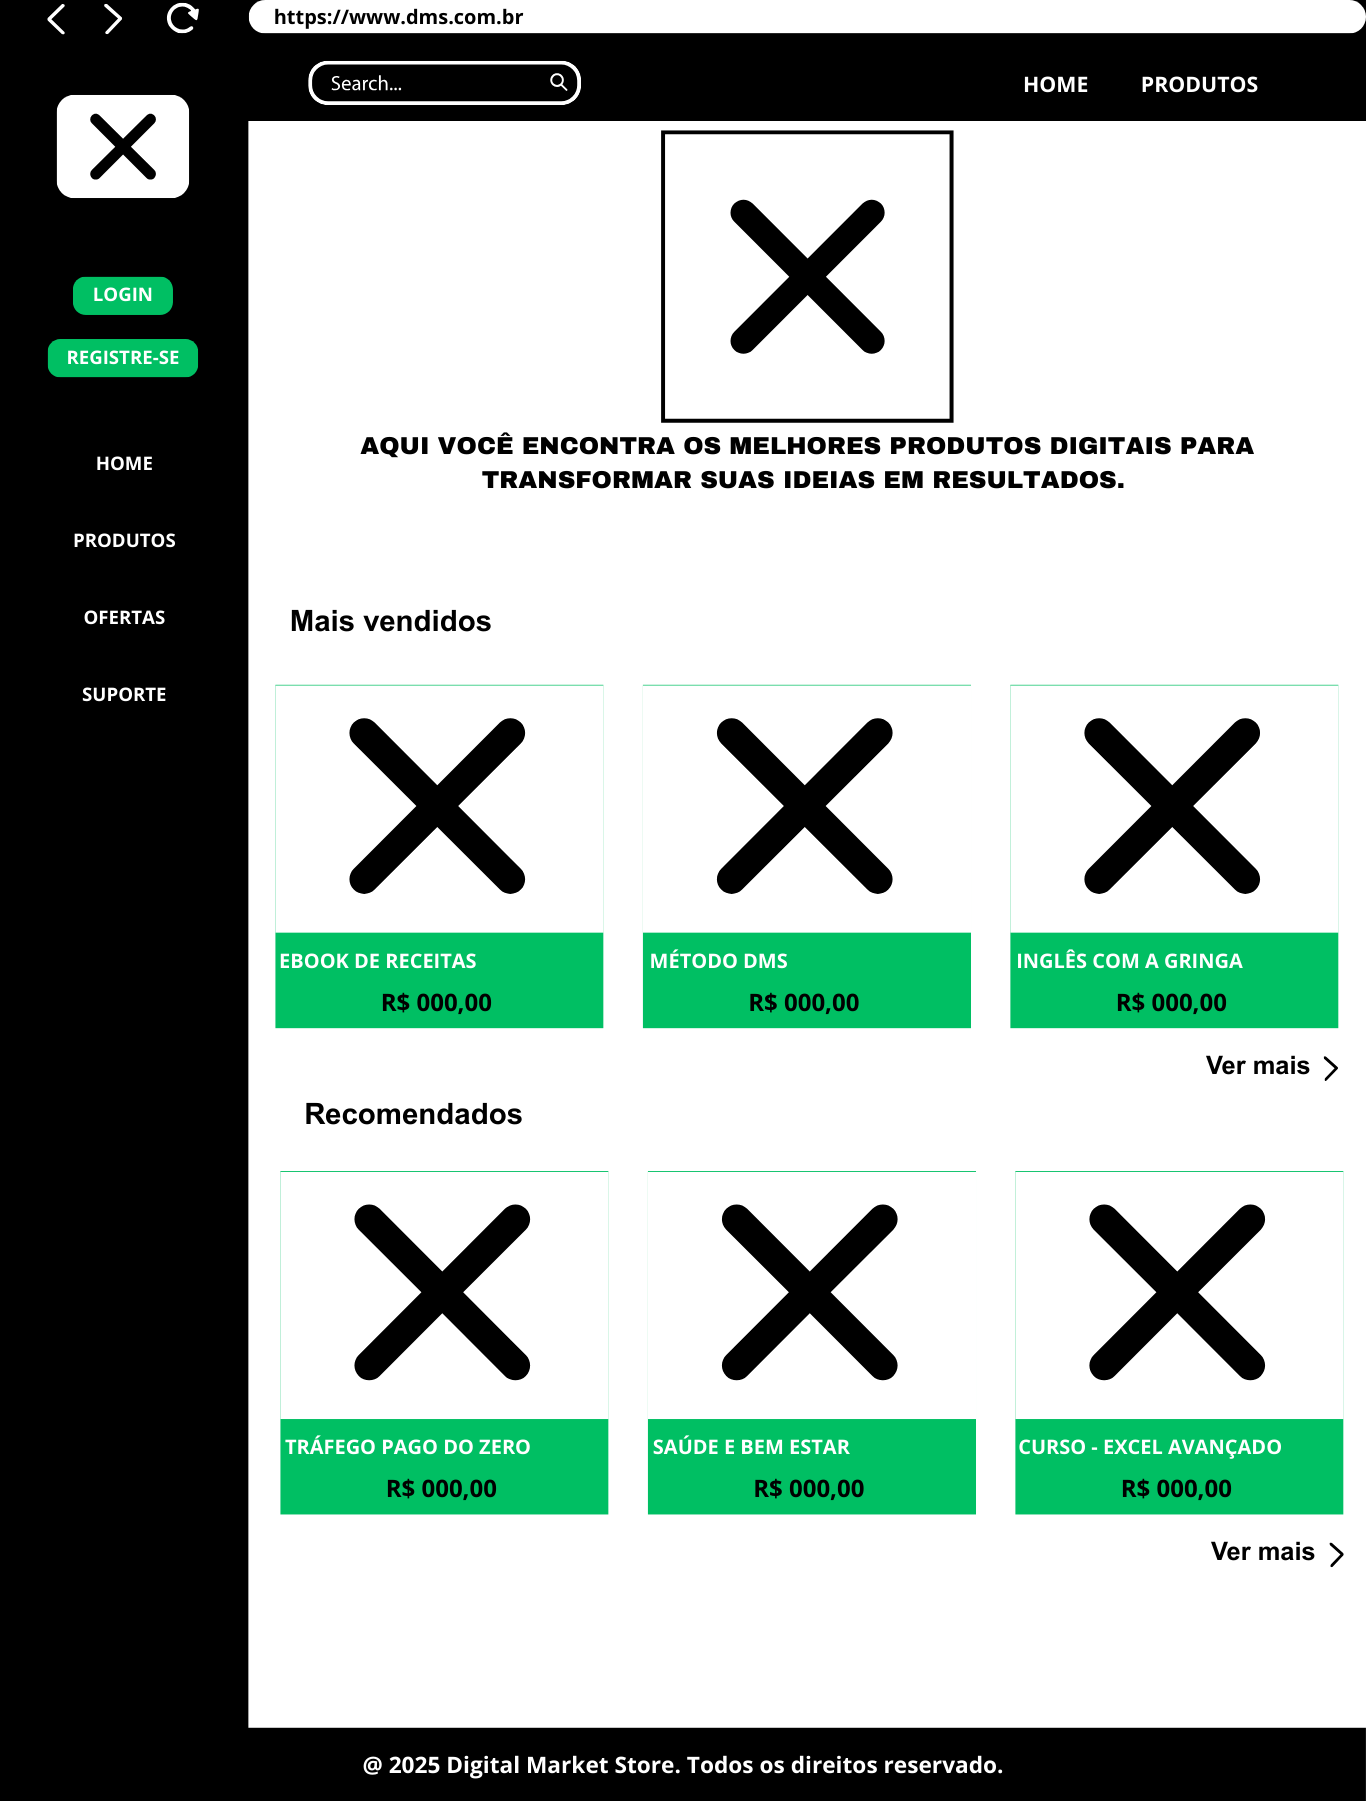
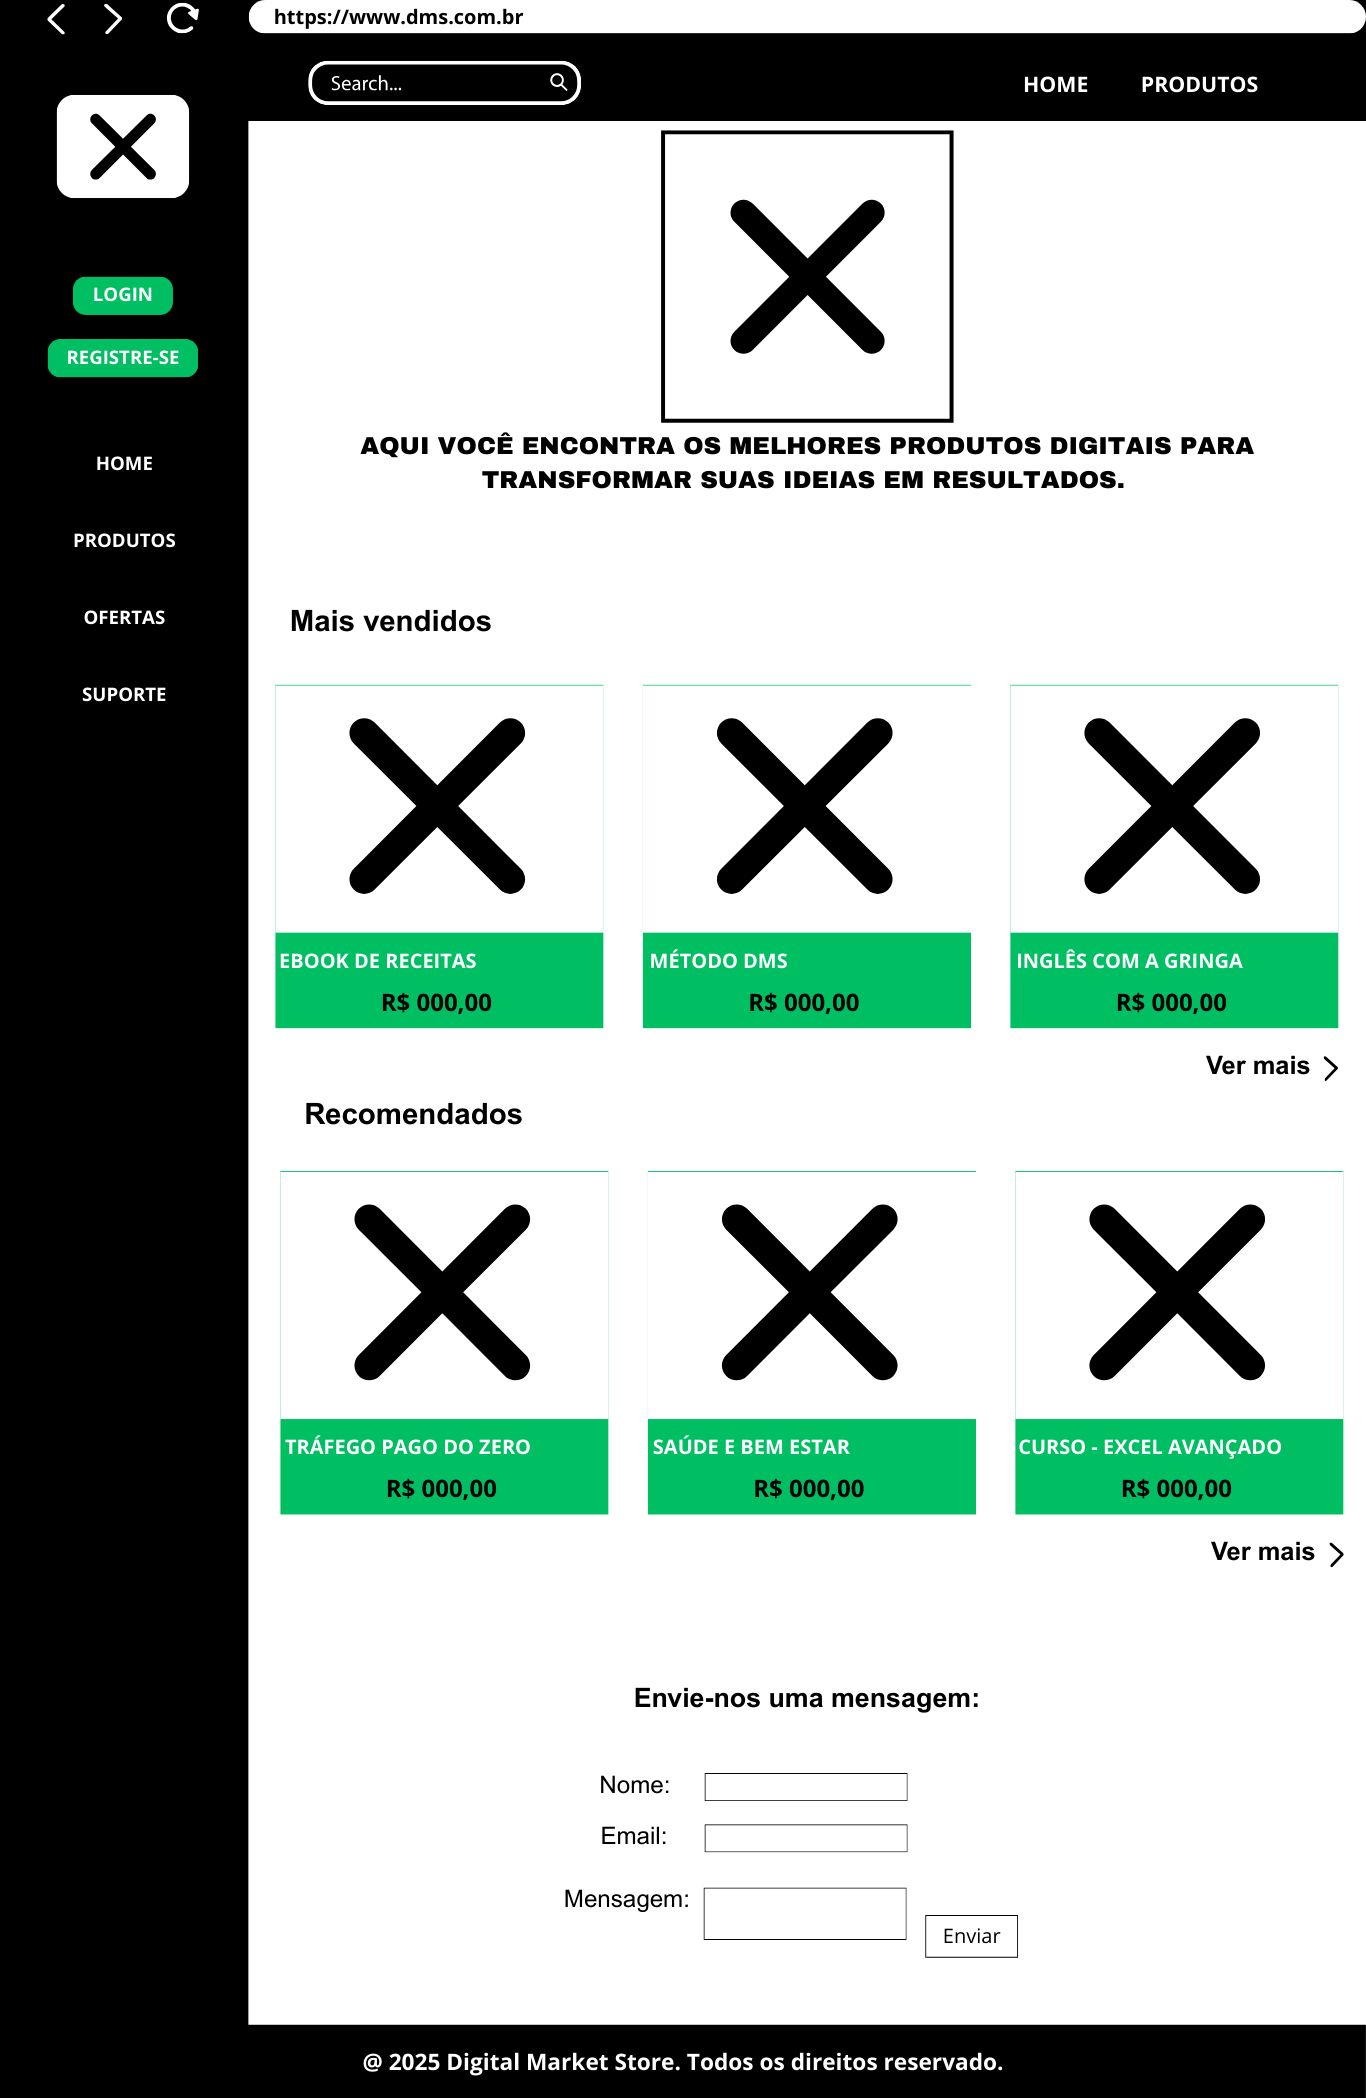
Adiciona e estiliza formulário no HTML com CSS e corrige erros

diff --git a/public/index.html b/public/index.html
@@ -1,18 +1,20 @@
 <!DOCTYPE html>
 <html lang="en">
+
 <head>
     <meta charset="UTF-8">
     <meta name="viewport" content="width=device-width, initial-scale=1.0">
     <title>Digital Market Store</title>
     <link rel="stylesheet" href="style.css">
 </head>
+
 <body>
     <header>
         <nav>
             <div class="caixa-pesquisa">
-            <input type="text" class="texto-pesquisa" placeholder="Buscar na Digital Market Store">
-            <button>Ir</button>
-        </div>
+                <input type="text" class="texto-pesquisa" placeholder="Buscar na Digital Market Store">
+                <button>Ir</button>
+            </div>
             <ul class="menu">
                 <li><a href="">HOME</a></li>
                 <li><a href="">PRODUTOS</a></li>
@@ -25,55 +27,97 @@
             <article>
                 <img class="logo2" src="Imagens/Logo2.png" alt="">
             </article>
-        <article class="caixa-produtos">
-            <h2>Mais Vendidos</h2>
-            <a href=""><div class="prod">
-                <img src="https://images.unsplash.com/photo-1542010589005-d1eacc3918f2?q=80&w=892&auto=format&fit=crop&ixlib=rb-4.1.0&ixid=M3wxMjA3fDB8MHxwaG90by1wYWdlfHx8fGVufDB8fHx8fA%3D%3D" alt="">
-                <h3>Receitas</h3>
-                <p>R$ 60,00</p>
-            </div></a>
-            <a href=""><div class="prod">
-                <img src="https://media.istockphoto.com/id/1339953021/pt/foto/business-strategy-for-marketing-and-management.jpg?b=1&s=612x612&w=0&k=20&c=rj7mYauwKOGQ-tajqHGXwxPWd6Ok-fyJlPNprryATmw=" alt="">
-                <h3>Método DMS</h3>
-                <p>R$ 150,00</p>
-            </div></a>
-            <a href=""><div class="prod">
-                <img src="https://media.istockphoto.com/id/1020548508/pt/foto/a-computer-flag-of-great-britain-and-book-titled-speak-english.jpg?b=1&s=612x612&w=0&k=20&c=8gf5loZJk87zvYT-wBhG5DN61URBFvVs5i8MHcnhcos=" alt="">
-                <h3>Inglês</h3>
-                <p>R$ 450,00</p>
-            </div></a>
-            <h3 class="ver"><a href="">Ver mais ></a></h3>
-        </article>
-        <article class="caixa-produtos2">
-            <h2>Recomendados</h2>
-            <a href=""><div class="prod">
-                <img src="https://media.istockphoto.com/id/1492180527/pt/foto/digital-marketing-commerce-online-sale-concept-promotion-of-products-or-services-through.jpg?b=1&s=612x612&w=0&k=20&c=f6FVNpymdv0PaJFtKymNQ-DSMOTnfj69e5sSvJ4dhPU=" alt="">
-                <h3>Tráfego pago do Zero</h3>
-                <p>R$ 250,00</p>
-            </div></a>
-            <a href=""><div class="prod">
-                <img src="https://media.istockphoto.com/id/1496103633/pt/foto/doctor-woman-and-tablet-in-hospital-with-holographic-ux-for-telehealth-medical-innovation-and.jpg?b=1&s=612x612&w=0&k=20&c=hNIJFu-E_YTlHax6LTE1551xx1AAUy_RbgDZj5UO06c=" alt="">
-                <h3>Saúde e bem estar</h3>
-                <p>R$ 180,00</p>
-            </div></a>
-            <a href=""><div class="prod">
-                <img src="https://images.unsplash.com/photo-1658203897339-0b8c64a42fba?w=500&auto=format&fit=crop&q=60&ixlib=rb-4.1.0&ixid=M3wxMjA3fDB8MHxzZWFyY2h8Mnx8ZXhjZWx8ZW58MHx8MHx8fDA%3D" alt="">
-                <h3>Curso - Excel Avançado</h3>
-                <p>R$ 70,00</p>
-            </div></a>
-            <h3 class="ver"><a href="">Ver mais ></a></h3>
-        </article>
+            <article class="caixa-produtos">
+                <h2>Mais Vendidos</h2>
+                <a href="">
+                    <div class="prod">
+                        <img src="https://images.unsplash.com/photo-1542010589005-d1eacc3918f2?q=80&w=892&auto=format&fit=crop&ixlib=rb-4.1.0&ixid=M3wxMjA3fDB8MHxwaG90by1wYWdlfHx8fGVufDB8fHx8fA%3D%3D"
+                            alt="">
+                        <h3>Receitas</h3>
+                        <p>R$ 60,00</p>
+                    </div>
+                </a>
+                <a href="">
+                    <div class="prod">
+                        <img src="https://media.istockphoto.com/id/1339953021/pt/foto/business-strategy-for-marketing-and-management.jpg?b=1&s=612x612&w=0&k=20&c=rj7mYauwKOGQ-tajqHGXwxPWd6Ok-fyJlPNprryATmw="
+                            alt="">
+                        <h3>Método DMS</h3>
+                        <p>R$ 150,00</p>
+                    </div>
+                </a>
+                <a href="">
+                    <div class="prod">
+                        <img src="https://media.istockphoto.com/id/1020548508/pt/foto/a-computer-flag-of-great-britain-and-book-titled-speak-english.jpg?b=1&s=612x612&w=0&k=20&c=8gf5loZJk87zvYT-wBhG5DN61URBFvVs5i8MHcnhcos="
+                            alt="">
+                        <h3>Inglês</h3>
+                        <p>R$ 450,00</p>
+                    </div>
+                </a>
+                <h3 class="ver"><a href="">Ver mais ></a></h3>
+            </article>
+            <article class="caixa-produtos2">
+                <h2>Recomendados</h2>
+                <a href="">
+                    <div class="prod">
+                        <img src="https://media.istockphoto.com/id/1492180527/pt/foto/digital-marketing-commerce-online-sale-concept-promotion-of-products-or-services-through.jpg?b=1&s=612x612&w=0&k=20&c=f6FVNpymdv0PaJFtKymNQ-DSMOTnfj69e5sSvJ4dhPU="
+                            alt="">
+                        <h3>Tráfego pago do Zero</h3>
+                        <p>R$ 250,00</p>
+                    </div>
+                </a>
+                <a href="">
+                    <div class="prod">
+                        <img src="https://media.istockphoto.com/id/1496103633/pt/foto/doctor-woman-and-tablet-in-hospital-with-holographic-ux-for-telehealth-medical-innovation-and.jpg?b=1&s=612x612&w=0&k=20&c=hNIJFu-E_YTlHax6LTE1551xx1AAUy_RbgDZj5UO06c="
+                            alt="">
+                        <h3>Saúde e bem estar</h3>
+                        <p>R$ 180,00</p>
+                    </div>
+                </a>
+                <a href="">
+                    <div class="prod">
+                        <img src="https://images.unsplash.com/photo-1658203897339-0b8c64a42fba?w=500&auto=format&fit=crop&q=60&ixlib=rb-4.1.0&ixid=M3wxMjA3fDB8MHxzZWFyY2h8Mnx8ZXhjZWx8ZW58MHx8MHx8fDA%3D"
+                            alt="">
+                        <h3>Curso - Excel Avançado</h3>
+                        <p>R$ 70,00</p>
+                    </div>
+                </a>
+                <h3 class="ver"><a href="">Ver mais ></a></h3>
+            </article>
+            <div class="contato">
+                <h3 class="mensagem">Envie-nos uma mensagem:</h3>
+                <form>
+                    <div class="campo">
+                        <label for="nome">Nome:</label>
+                        <input type="text" id="nome" name="nome" required>
+                    </div>
+                    <br>
+                    <div class="campo">
+                        <label for="email">Email:</label>
+                        <input type="email" id="email" name="email" required>
+                    </div>
+                    <br>
+                    <div class="campo">
+                        <label for="mensagem">Mensagem:</label>
+                        <textarea name="mensagem" id="mensagem" required></textarea>
+                        <button type="submit">Enviar</button>
+                    </div>
+                </form>
+            </div>
         </section>
         <footer>
-        <p>@ 2025 Digital Market Store. Todos os direitos reservados.</p>
-    </footer>
+            <p>@ 2025 Digital Market Store. Todos os direitos reservados.</p>
+        </footer>
     </main>
 
     <aside>
         <div>
             <ul>
-                <a href=""><button class="botao"><li>Login</li></button></a>
-                <a href=""><button class="botao"><li>Registre-se</li></button>
+                <a href=""><button class="botao">
+                        <li>Login</li>
+                    </button></a>
+                <a href=""><button class="botao">
+                        <li>Registre-se</li>
+                    </button>
             </ul>
         </div>
         <div>
@@ -82,9 +126,10 @@
                 <li><a href="">Produtos</a></li>
                 <li><a href="">Ofertas</a></li>
                 <li><a href="">Suporte</a></li>
-            </ul>     
+            </ul>
         </div>
     </aside>
-    
+
 </body>
+
 </html>

diff --git a/public/style.css b/public/style.css
@@ -176,3 +176,15 @@ footer > p {
     font-size: 17px;
     font-style: italic;
 }
+.campo {
+    font-size: 17px;
+    text-align: center;
+    margin-bottom: 10px;
+}
+.mensagem {
+    text-align: center;
+    margin-top: 150px;
+    margin-bottom: 50px;
+    font-family: Arial, Helvetica, sans-serif;
+    font-style: italic;
+}
